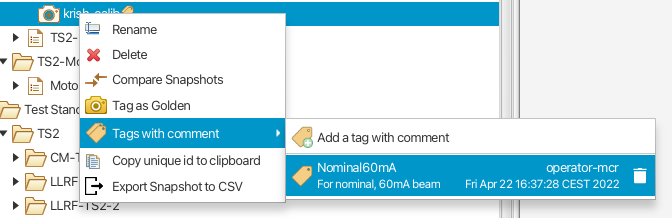
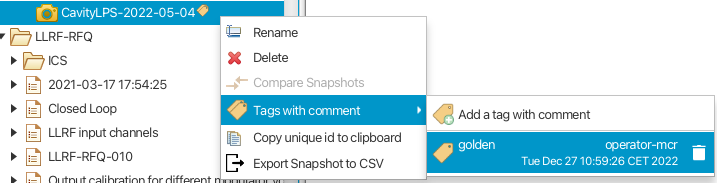
Updated save&restore tree view context menus. Also doc updates

diff --git a/app/save-and-restore/app/src/main/java/org/phoebus/applications/saveandrestore/ui/ContextMenuSnapshot.java b/app/save-and-restore/app/src/main/java/org/phoebus/applications/saveandrestore/ui/ContextMenuSnapshot.java
@@ -18,7 +18,6 @@
 
 package org.phoebus.applications.saveandrestore.ui;
 
-import javafx.application.Platform;
 import javafx.beans.property.SimpleObjectProperty;
 import javafx.beans.property.SimpleStringProperty;
 import javafx.collections.ObservableList;
@@ -32,6 +31,8 @@ import javafx.scene.image.Image;
 import javafx.scene.image.ImageView;
 import org.phoebus.applications.saveandrestore.Messages;
 import org.phoebus.applications.saveandrestore.model.Node;
+import org.phoebus.applications.saveandrestore.model.NodeType;
+import org.phoebus.applications.saveandrestore.model.Tag;
 import org.phoebus.applications.saveandrestore.ui.snapshot.tag.TagWidget;
 import org.phoebus.ui.javafx.ImageCache;
 
@@ -41,24 +42,24 @@ public class ContextMenuSnapshot extends ContextMenuBase {
     protected Image snapshotTagsWithCommentIcon = ImageCache.getImage(SaveAndRestoreController.class, "/icons/save-and-restore/snapshot-tags.png");
     protected Image csvExportIcon = ImageCache.getImage(SaveAndRestoreController.class, "/icons/csv_export.png");
 
+    private MenuItem compareSnapshotsMenuItem;
+
+    private Menu tagWithComment;
+
     public ContextMenuSnapshot(SaveAndRestoreController saveAndRestoreController,
                                SimpleStringProperty toggleGoldenMenuItemText,
                                SimpleObjectProperty<ImageView> toggleGoldenImageViewProperty,
                                TreeView<org.phoebus.applications.saveandrestore.model.Node> treeView) {
         super(saveAndRestoreController, treeView);
 
-        MenuItem compareSnapshotsMenuItem = new MenuItem(Messages.contextMenuCompareSnapshots, new ImageView(compareSnapshotIcon));
+        compareSnapshotsMenuItem = new MenuItem(Messages.contextMenuCompareSnapshots, new ImageView(compareSnapshotIcon));
         compareSnapshotsMenuItem.setOnAction(ae -> saveAndRestoreController.comapreSnapshot());
-
-        MenuItem tagAsGolden = new MenuItem(Messages.contextMenuTagAsGolden, new ImageView(ImageRepository.GOLDEN_SNAPSHOT));
-        tagAsGolden.textProperty().bind(toggleGoldenMenuItemText);
-        tagAsGolden.graphicProperty().bind(toggleGoldenImageViewProperty);
-        tagAsGolden.setOnAction(ae -> saveAndRestoreController.toggleGoldenProperty());
 
         ImageView snapshotTagsWithCommentIconImage = new ImageView(snapshotTagsWithCommentIcon);
         snapshotTagsWithCommentIconImage.setFitHeight(22);
         snapshotTagsWithCommentIconImage.setFitWidth(22);
-        Menu tagWithComment = new Menu(Messages.contextMenuTagsWithComment, snapshotTagsWithCommentIconImage);
+
+        tagWithComment = new Menu(Messages.contextMenuTagsWithComment, snapshotTagsWithCommentIconImage);
         tagWithComment.setOnShowing(event -> saveAndRestoreController.tagWithComment(tagWithComment.getItems()));
 
         CustomMenuItem addTagWithCommentMenuItem = TagWidget.AddTagWithCommentMenuItem();
@@ -80,7 +81,6 @@ public class ContextMenuSnapshot extends ContextMenuBase {
         getItems().addAll(renameNodeMenuItem,
                 deleteNodesMenuItem,
                 compareSnapshotsMenuItem,
-                tagAsGolden,
                 tagWithComment,
                 copyUniqueIdToClipboardMenuItem,
                 exportSnapshotMenuItem);
@@ -89,20 +89,16 @@ public class ContextMenuSnapshot extends ContextMenuBase {
 
     @Override
     protected void runChecks() {
+        super.runChecks();
         ObservableList<TreeItem<Node>> selected =
                 treeView.getSelectionModel().getSelectedItems();
-        // TODO: support multiple selection to allow tagging of multiple snapshots
-        if (multipleSelection.get() && !isDeletionPossible(selected)) {
-            Platform.runLater(this::hide);
+        if (multipleSelection.get() && checkNotTaggable(selected)) {
+            tagWithComment.disableProperty().set(true);
         }
-        /*
-        if (multipleSelection.get() && !isDeletionPossible(selected)) {
-            deleteNodesMenuItem.disableProperty().set(true);
+        else{
+            tagWithComment.disableProperty().set(false);
         }
-        tagAsGolden.disableProperty().set(multipleSelection.getValue());
         compareSnapshotsMenuItem.disableProperty().set(!compareSnapshotsPossible());
-
-         */
     }
 
     /**
@@ -125,5 +121,16 @@ public class ContextMenuSnapshot extends ContextMenuBase {
         return configAndSnapshotNode[1].getUniqueId() != null &&
                 parentItem.getValue().getUniqueId().equals(configAndSnapshotNode[0].getUniqueId()) &&
                 !selectedItem.getValue().getUniqueId().equals(configAndSnapshotNode[1].getUniqueId());
+    }
+
+    /**
+     * Checks if selection is not allowed, i.e. not all selected nodes are snapshot nodes.
+     * @param selectedItems List of selected nodes
+     * @return <code>true</code> if any of the selected nodes is of type {@link NodeType#FOLDER} or
+     * {@link NodeType#CONFIGURATION}.
+     */
+    private boolean checkNotTaggable(ObservableList<TreeItem<Node>> selectedItems){
+        return selectedItems.stream().filter(i -> i.getValue().getNodeType().equals(NodeType.FOLDER) ||
+                i.getValue().getNodeType().equals(NodeType.CONFIGURATION)).findFirst().isPresent();
     }
 }

diff --git a/app/save-and-restore/app/src/main/java/org/phoebus/applications/saveandrestore/ui/ContextMenuBase.java b/app/save-and-restore/app/src/main/java/org/phoebus/applications/saveandrestore/ui/ContextMenuBase.java
@@ -18,7 +18,6 @@
 
 package org.phoebus.applications.saveandrestore.ui;
 
-import javafx.application.Platform;
 import javafx.beans.property.SimpleBooleanProperty;
 import javafx.collections.ListChangeListener;
 import javafx.collections.ObservableList;
@@ -56,19 +55,15 @@ public abstract class ContextMenuBase extends ContextMenu {
 
         renameNodeMenuItem = new MenuItem(Messages.contextMenuRename, new ImageView(renameIcon));
         renameNodeMenuItem.setOnAction(ae -> saveAndRestoreController.renameNode());
+        renameNodeMenuItem.disableProperty().bind(multipleSelection);
 
         copyUniqueIdToClipboardMenuItem = new MenuItem(Messages.copyUniqueIdToClipboard, ImageCache.getImageView(ImageCache.class, "/icons/copy.png"));
         copyUniqueIdToClipboardMenuItem.setOnAction(ae -> saveAndRestoreController.copyUniqueNodeIdToClipboard());
-
-        treeView.getSelectionModel().getSelectedItems().addListener(new ListChangeListener<TreeItem<Node>>() {
-            @Override
-            public void onChanged(Change<? extends TreeItem<Node>> c) {
-                multipleSelection.set(treeView.getSelectionModel().getSelectedItems().size() > 1);
-            }
-        });
-
-        renameNodeMenuItem.disableProperty().bind(multipleSelection);
         copyUniqueIdToClipboardMenuItem.disableProperty().bind(multipleSelection);
+
+        treeView.getSelectionModel().getSelectedItems()
+                .addListener((ListChangeListener<TreeItem<Node>>) c ->
+                        multipleSelection.set(treeView.getSelectionModel().getSelectedItems().size() > 1));
 
         setOnShowing(event -> runChecks());
     }
@@ -81,23 +76,29 @@ public abstract class ContextMenuBase extends ContextMenu {
     protected void runChecks() {
         ObservableList<TreeItem<Node>> selected =
                 treeView.getSelectionModel().getSelectedItems();
-        if (multipleSelection.get() && !isDeletionPossible(selected)) {
-            Platform.runLater(this::hide);
+        if (multipleSelection.get() && !hasSameParent(selected)) {
+            deleteNodesMenuItem.disableProperty().set(true);
+        }
+        else{
+            deleteNodesMenuItem.disableProperty().set(false);
         }
     }
 
     /**
-     * Deletion of tree nodes when multiple nodes are selected is allowed only if all of the
-     * selected nodes have the same parent node. This method checks the parent node(s) of
-     * the selected nodes accordingly.
-     *
+     * Used to determine if nodes selected in the tree view have the same parent node. Most menu items
+     * do not make sense unless the selected nodes have same the parent node.
      * @param selectedItems The selected tree nodes.
      * @return <code>true</code> if all selected nodes have the same parent node, <code>false</code> otherwise.
      */
-    protected boolean isDeletionPossible(ObservableList<TreeItem<Node>> selectedItems) {
-        Node parentNode = selectedItems.get(0).getParent().getValue();
-        for (TreeItem<Node> treeItem : selectedItems) {
-            if (!treeItem.getParent().getValue().getUniqueId().equals(parentNode.getUniqueId())) {
+    protected boolean hasSameParent(ObservableList<TreeItem<Node>> selectedItems) {
+        if(selectedItems.size() == 1){
+            return true;
+        }
+        Node parentNodeOfFirst = selectedItems.get(0).getParent().getValue();
+        for (int i = 1; i < selectedItems.size(); i++) {
+            TreeItem<Node> treeItem = selectedItems.get(i);
+            if (!treeItem.getParent().getValue().getUniqueId().equals(parentNodeOfFirst.getUniqueId())) {
+                System.out.println(parentNodeOfFirst.getUniqueId() + " " + treeItem.getParent().getValue().getUniqueId());
                 return false;
             }
         }

diff --git a/app/save-and-restore/app/src/main/java/org/phoebus/applications/saveandrestore/ui/SaveAndRestoreController.java b/app/save-and-restore/app/src/main/java/org/phoebus/applications/saveandrestore/ui/SaveAndRestoreController.java
@@ -29,6 +29,7 @@ import javafx.beans.property.SimpleStringProperty;
 import javafx.beans.value.ChangeListener;
 import javafx.beans.value.ObservableValue;
 import javafx.collections.FXCollections;
+import javafx.collections.ListChangeListener;
 import javafx.collections.ObservableList;
 import javafx.concurrent.Task;
 import javafx.fxml.FXML;
@@ -47,6 +48,7 @@ import javafx.scene.control.MenuItem;
 import javafx.scene.control.MultipleSelectionModel;
 import javafx.scene.control.ProgressIndicator;
 import javafx.scene.control.SelectionMode;
+import javafx.scene.control.SelectionModel;
 import javafx.scene.control.SplitPane;
 import javafx.scene.control.Tab;
 import javafx.scene.control.TabPane;
@@ -201,14 +203,6 @@ public class SaveAndRestoreController implements Initializable, NodeChangedListe
         treeView.getSelectionModel().setSelectionMode(SelectionMode.MULTIPLE);
         treeView.getStylesheets().add(getClass().getResource("/style.css").toExternalForm());
         browserSelectionModel = treeView.getSelectionModel();
-        browserSelectionModel.selectedItemProperty().addListener(new ChangeListener<TreeItem<Node>>() {
-            @Override
-            public void changed(ObservableValue<? extends TreeItem<Node>> observable, TreeItem<Node> oldValue, TreeItem<Node> newValue) {
-                if (newValue != null) {
-
-                }
-            }
-        });
 
         ImageView searchButtonImageView = ImageCache.getImageView(SaveAndRestoreApplication.class, "/icons/sar-search.png");
         searchButtonImageView.setFitWidth(20);
@@ -1353,5 +1347,18 @@ public class SaveAndRestoreController implements Initializable, NodeChangedListe
 
         tabPane.getTabs().add(tab);
         tabPane.getSelectionModel().select(tab);
+    }
+
+    protected boolean hasSameParent(ObservableList<? extends TreeItem<Node>> selectedItems) {
+        if(selectedItems.size() == 1){
+            return true;
+        }
+        Node parentNode = selectedItems.get(0).getParent().getValue();
+        for (TreeItem<Node> treeItem : selectedItems) {
+            if (treeItem.getParent().getValue().getUniqueId().equals(parentNode.getUniqueId())) {
+                return true;
+            }
+        }
+        return false;
     }
 }

diff --git a/app/save-and-restore/app/src/main/java/org/phoebus/applications/saveandrestore/ui/ContextMenuCompositeSnapshot.java b/app/save-and-restore/app/src/main/java/org/phoebus/applications/saveandrestore/ui/ContextMenuCompositeSnapshot.java
@@ -69,13 +69,4 @@ public class ContextMenuCompositeSnapshot extends ContextMenuBase {
                 copyUniqueIdToClipboardMenuItem,
                 tagWithComment);
     }
-
-    @Override
-    protected void runChecks() {
-        ObservableList<TreeItem<Node>> selected =
-                treeView.getSelectionModel().getSelectedItems();
-        if (multipleSelection.get() && !isDeletionPossible(selected)) {
-            Platform.runLater(this::hide);
-        }
-    }
 }

diff --git a/app/save-and-restore/app/doc/index.rst b/app/save-and-restore/app/doc/index.rst
@@ -339,6 +339,18 @@ User may delete a tag through the tagging sub-menu:
 
 .. image:: images/delete-tag.png
 
+Tagging multiple snapshots
+^^^^^^^^^^^^^^^^^^^^^^^^^^
+
+If user selects multiple snapshot nodes, all of the selected nodes can be tagged with the same tag in one single operation.
+Note however that this is possible only if the wanted tag is not already present on any of the nodes.
+
+Removing tag on multiple snapshots
+^^^^^^^^^^^^^^^^^^^^^^^^^^^^^^^^^^
+
+If user selects multiple snapshot nodes, tags may be removed on all of the nodes in one single operation. Note however
+that the context menu will only show tags common for all selected nodes.
+
 Snapshot View Context Menu
 --------------------------
 
